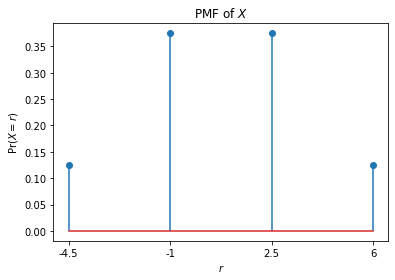
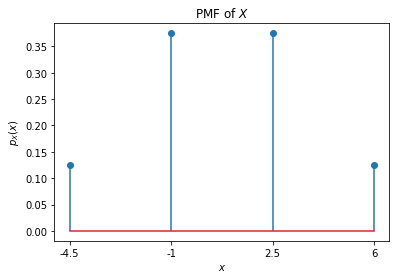
Add files via upload

diff --git a/Assignment14/Assignment14.py b/Assignment14/Assignment14.py
@@ -18,21 +18,34 @@ import matplotlib.pyplot as plt
 n=3
 p=0.5
 k=list(range(n+1))
+x=[-4.5,-1,2.5,6]
 
-#Calculating pmf
-dist=[binom.pmf(k1,n,p) for k1 in k]
+#Calculating pmf in terms of k
+p_k=[binom.pmf(k1,n,p) for k1 in k]
 
-#Printing pmf values
+#Printing pmf values in terms of k
+print("PMF in terms of k")
 print("k \t p(k)")
 for i in range(n+1) :
-  print(str(k[i]) + "\t" + str(dist[i]))
+  print(str(k[i]) + "\t" + str(p_k[i]))
+
+#Calculating pmf in terms of x
+p_x=[0.4005+0.0153*x1-0.0102*x1*x1 for x1 in x]
+
+#Print pmf values in terms of x
+print("\n")
+print("PMF in terms of x")
+print("x \t p(x)")
+for i in k :
+  print(str(x[i]) + "\t" + str(p_x[i]))
+
 
 #Plotting the pmf graph
 data = {'-4.5':1/8, '-1':3/8, '2.5':3/8, '6':1/8}
 key = list(data.keys())
 value = list(data.values())
 plt.stem(key,value,use_line_collection = True)
-plt.xlabel("$r$")
-plt.ylabel("Pr($X=r$)")
+plt.xlabel("$x$")
+plt.ylabel("$p_{X}(x)$")
 plt.title("PMF of $X$")
 plt.show()

diff --git a/Assignment14/Assignment14.tex b/Assignment14/Assignment14.tex
@@ -153,7 +153,7 @@ A person plays a game of tossing a coin thrice. For each head, he is given Rs 2 
 
 Let $X_1,X_2,X_3$ be the three tosses of the coin and $X$ be the total amount such that
 \begin{align}
-    X &= X_1+X_2+X_3
+    X &= X_1+X_2+X_3 \label{eq1}
 \end{align}
 where
 \begin{align}
@@ -173,14 +173,14 @@ where
     n=3,p=\frac{1}{2},k=0,1,2,3
 \end{align}
 
-For $k \in \{0,1,2,3\}$,value of $X$ in terms of a new random variable $Y$ is given by
+From eq.\eqref{eq1},value of $X$ is given by
 \begin{align}
-    Y &= r \in \{-4.5,-1,2.5,6\}
+    X &= x \in \{-4.5,-1,2.5,6\}
 \end{align}
 
-So
+Now,using least square method of curve fitting,PMF of $X$ in terms of $x$ is given by 
 \begin{align}
-    \pr{X=r} &= p_{X}(k)
+    p_{X}(x) &= 0.4005 + 0.0153x - 0.0102x^2
 \end{align}
 
 \numberwithin{figure}{section}
